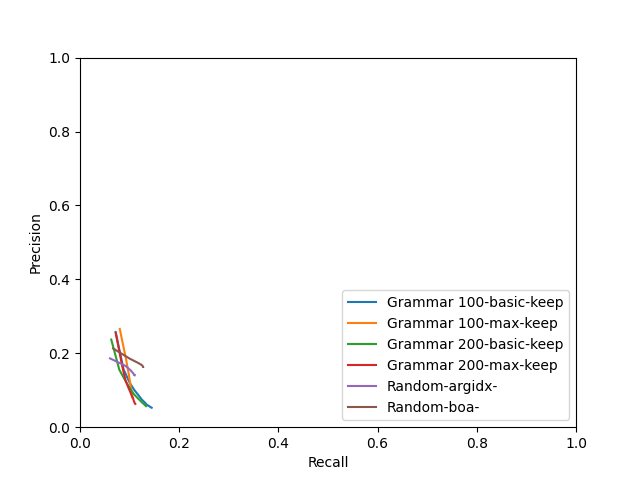
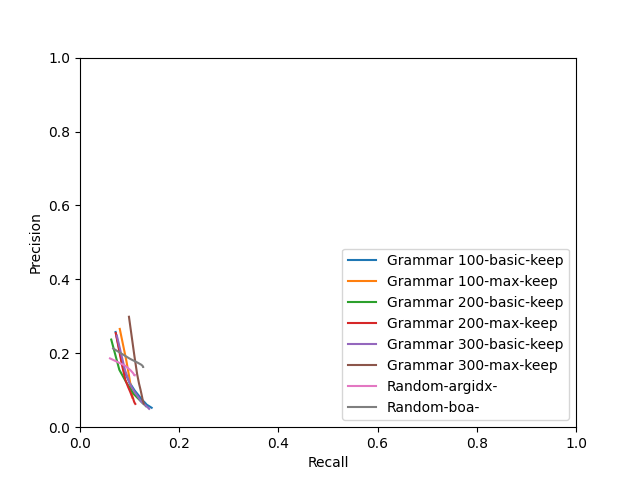
Eval gr300 and arg permutation on juno

diff --git a/eval/reports/dev_all_ap.md b/eval/reports/dev_all_ap.md
@@ -20,7 +20,7 @@
 
 |  model | predicted extractions | gold extractions | matches | exact matches | prec | rec | F1 |
 |-------------- | -------------- | -------------- | -------------- | -------------- | -------------- | -------------- | -------------- | 
-| all | 3273 | 5265 | 3273 | 374 | **0.9366** | **0.3388** | **0.4976** | 
+| all | 3422 | 5265 | 3422 | 408 | **0.9472** | **0.3784** | **0.5408** | 
 
 
 ### max - keep
@@ -43,14 +43,14 @@
 
 |  model | predicted extractions | gold extractions | matches | exact matches | prec | rec | F1 |
 |-------------- | -------------- | -------------- | -------------- | -------------- | -------------- | -------------- | -------------- | 
-| all | 3267 | 5265 | 3267 | 357 | **0.9493** | **0.3194** | **0.4780** | 
+| all | 3415 | 5265 | 3415 | 378 | **0.9566** | **0.3519** | **0.5145** | 
 
 
 ### rec - keep
 
 |  model | predicted extractions | gold extractions | matches | exact matches | prec | rec | F1 |
 |-------------- | -------------- | -------------- | -------------- | -------------- | -------------- | -------------- | -------------- | 
-| all | 3245 | 5265 | 3245 | 186 | **0.8591** | **0.3370** | **0.4841** | 
+| all | 3394 | 5265 | 3394 | 163 | **0.8708** | **0.3764** | **0.5256** | 
 
 
 ## Grammar 200
@@ -74,7 +74,7 @@
 
 |  model | predicted extractions | gold extractions | matches | exact matches | prec | rec | F1 |
 |-------------- | -------------- | -------------- | -------------- | -------------- | -------------- | -------------- | -------------- | 
-| all | 3715 | 5265 | 3715 | 372 | **0.9464** | **0.3252** | **0.4841** | 
+| all | 3908 | 5265 | 3908 | 409 | **0.9524** | **0.3608** | **0.5234** | 
 
 
 ### max - keep
@@ -97,102 +97,15 @@
 
 |  model | predicted extractions | gold extractions | matches | exact matches | prec | rec | F1 |
 |-------------- | -------------- | -------------- | -------------- | -------------- | -------------- | -------------- | -------------- | 
-| all | 3713 | 5265 | 3713 | 330 | **0.9582** | **0.3027** | **0.4601** | 
+| all | 3895 | 5265 | 3895 | 354 | **0.9565** | **0.3293** | **0.4899** | 
 
 
 ### rec - keep
 
 |  model | predicted extractions | gold extractions | matches | exact matches | prec | rec | F1 |
 |-------------- | -------------- | -------------- | -------------- | -------------- | -------------- | -------------- | -------------- | 
-| all | 3689 | 5265 | 3689 | 192 | **0.8807** | **0.3229** | **0.4726** | 
-
-
-## Grammar 300
-### basic - keep
-
-|  k | predicted extractions | gold extractions | matches | exact matches | prec | rec | F1 |
-|-------------- | -------------- | -------------- | -------------- | -------------- | -------------- | -------------- | -------------- | 
-| k1 | 2266 | 5265 | 713 | 64 | **0.2476** | 0.0743 | **0.1143** | 
-| k2 | 4530 | 5265 | 870 | 84 | 0.1542 | 0.0908 | **0.1143** | 
-| k3 | 6794 | 5265 | 962 | 94 | 0.1159 | 0.1009 | 0.1079 | 
-| k4 | 9053 | 5265 | 1054 | 104 | 0.0955 | 0.1099 | 0.1022 | 
-| k5 | 11311 | 5265 | 1117 | 111 | 0.0818 | 0.1170 | 0.0963 | 
-| k6 | 13570 | 5265 | 1166 | 117 | 0.0712 | 0.1221 | 0.0900 | 
-| k7 | 15824 | 5265 | 1219 | 126 | 0.0642 | 0.1275 | 0.0854 | 
-| k8 | 18079 | 5265 | 1270 | 132 | 0.0585 | 0.1324 | 0.0811 | 
-| k9 | 20336 | 5265 | 1307 | 140 | 0.0538 | 0.1364 | 0.0771 | 
-| k10 | 22589 | 5265 | 1338 | 140 | 0.0497 | **0.1394** | 0.0732 | 
-
-
-### f1 - keep
-
-|  model | predicted extractions | gold extractions | matches | exact matches | prec | rec | F1 |
-|-------------- | -------------- | -------------- | -------------- | -------------- | -------------- | -------------- | -------------- | 
-| all | 4446 | 5265 | 4446 | 554 | **0.9403** | **0.4480** | **0.6069** | 
-
-
-### max - keep
-
-|  k | predicted extractions | gold extractions | matches | exact matches | prec | rec | F1 |
-|-------------- | -------------- | -------------- | -------------- | -------------- | -------------- | -------------- | -------------- | 
-| k1 | 2267 | 5265 | 999 | 0 | **0.2988** | 0.0987 | **0.1484** | 
-| k2 | 3992 | 5265 | 1106 | 0 | 0.1916 | 0.1098 | 0.1396 | 
-| k3 | 5618 | 5265 | 1159 | 0 | 0.1435 | 0.1152 | 0.1278 | 
-| k4 | 7095 | 5265 | 1198 | 0 | 0.1180 | 0.1190 | 0.1185 | 
-| k5 | 8457 | 5265 | 1234 | 0 | 0.1020 | 0.1219 | 0.1110 | 
-| k6 | 9777 | 5265 | 1254 | 0 | 0.0898 | 0.1239 | 0.1041 | 
-| k7 | 10988 | 5265 | 1269 | 0 | 0.0811 | 0.1253 | 0.0985 | 
-| k8 | 12181 | 5265 | 1282 | 0 | 0.0743 | 0.1263 | 0.0936 | 
-| k9 | 13349 | 5265 | 1293 | 0 | 0.0685 | 0.1276 | 0.0892 | 
-| k10 | 14482 | 5265 | 1302 | 0 | 0.0639 | **0.1285** | 0.0853 | 
-
-
-### prec - keep
-
-|  model | predicted extractions | gold extractions | matches | exact matches | prec | rec | F1 |
-|-------------- | -------------- | -------------- | -------------- | -------------- | -------------- | -------------- | -------------- | 
-| all | 4434 | 5265 | 4434 | 477 | **0.9483** | **0.4135** | **0.5759** | 
-
-
-### rec - keep
-
-|  model | predicted extractions | gold extractions | matches | exact matches | prec | rec | F1 |
-|-------------- | -------------- | -------------- | -------------- | -------------- | -------------- | -------------- | -------------- | 
-| all | 4414 | 5265 | 4414 | 243 | **0.8572** | **0.4450** | **0.5859** | 
-
-
-## Random
-### argidx - 
-
-|  k | predicted extractions | gold extractions | matches | exact matches | prec | rec | F1 |
-|-------------- | -------------- | -------------- | -------------- | -------------- | -------------- | -------------- | -------------- | 
-| k1 | 2266 | 5265 | 680 | 7 | **0.1862** | 0.0605 | 0.0913 | 
-| k2 | 3738 | 5265 | 996 | 12 | 0.1660 | 0.0917 | 0.1181 | 
-| k3 | 4551 | 5265 | 1115 | 14 | 0.1533 | 0.1024 | 0.1228 | 
-| k4 | 4952 | 5265 | 1154 | 15 | 0.1458 | 0.1073 | **0.1236** | 
-| k5 | 5121 | 5265 | 1168 | 15 | 0.1430 | 0.1086 | 0.1235 | 
-| k6 | 5188 | 5265 | 1175 | 15 | 0.1418 | 0.1093 | 0.1234 | 
-| k7 | 5222 | 5265 | 1176 | 15 | 0.1408 | 0.1094 | 0.1231 | 
-| k8 | 5240 | 5265 | 1180 | 15 | 0.1407 | 0.1100 | 0.1235 | 
-| k9 | 5251 | 5265 | 1180 | 15 | 0.1404 | 0.1100 | 0.1234 | 
-| k10 | 5257 | 5265 | 1181 | 15 | 0.1404 | **0.1102** | 0.1235 | 
-
-
-### boa - 
-
-|  k | predicted extractions | gold extractions | matches | exact matches | prec | rec | F1 |
-|-------------- | -------------- | -------------- | -------------- | -------------- | -------------- | -------------- | -------------- | 
-| k1 | 2266 | 5265 | 749 | 10 | **0.2130** | 0.0668 | 0.1018 | 
-| k2 | 3752 | 5265 | 1068 | 15 | 0.1855 | 0.1002 | 0.1301 | 
-| k3 | 4551 | 5265 | 1211 | 18 | 0.1749 | 0.1158 | 0.1393 | 
-| k4 | 4957 | 5265 | 1279 | 20 | 0.1691 | 0.1235 | 0.1427 | 
-| k5 | 5145 | 5265 | 1304 | 22 | 0.1663 | 0.1259 | **0.1433** | 
-| k6 | 5227 | 5265 | 1310 | 22 | 0.1645 | 0.1267 | 0.1431 | 
-| k7 | 5272 | 5265 | 1314 | 22 | 0.1637 | 0.1272 | 0.1432 | 
-| k8 | 5291 | 5265 | 1316 | 22 | 0.1633 | **0.1274** | 0.1431 | 
-| k9 | 5301 | 5265 | 1316 | 22 | 0.1630 | **0.1274** | 0.1430 | 
-| k10 | 5306 | 5265 | 1316 | 22 | 0.1629 | **0.1274** | 0.1430 | 
+| all | 3888 | 5265 | 3888 | 195 | **0.8955** | **0.3598** | **0.5134** | 
 
 
 ## P-R curve
-![](pr_curve_dev_all.png)
+![](pr_curve_dev_all_ap.png)
